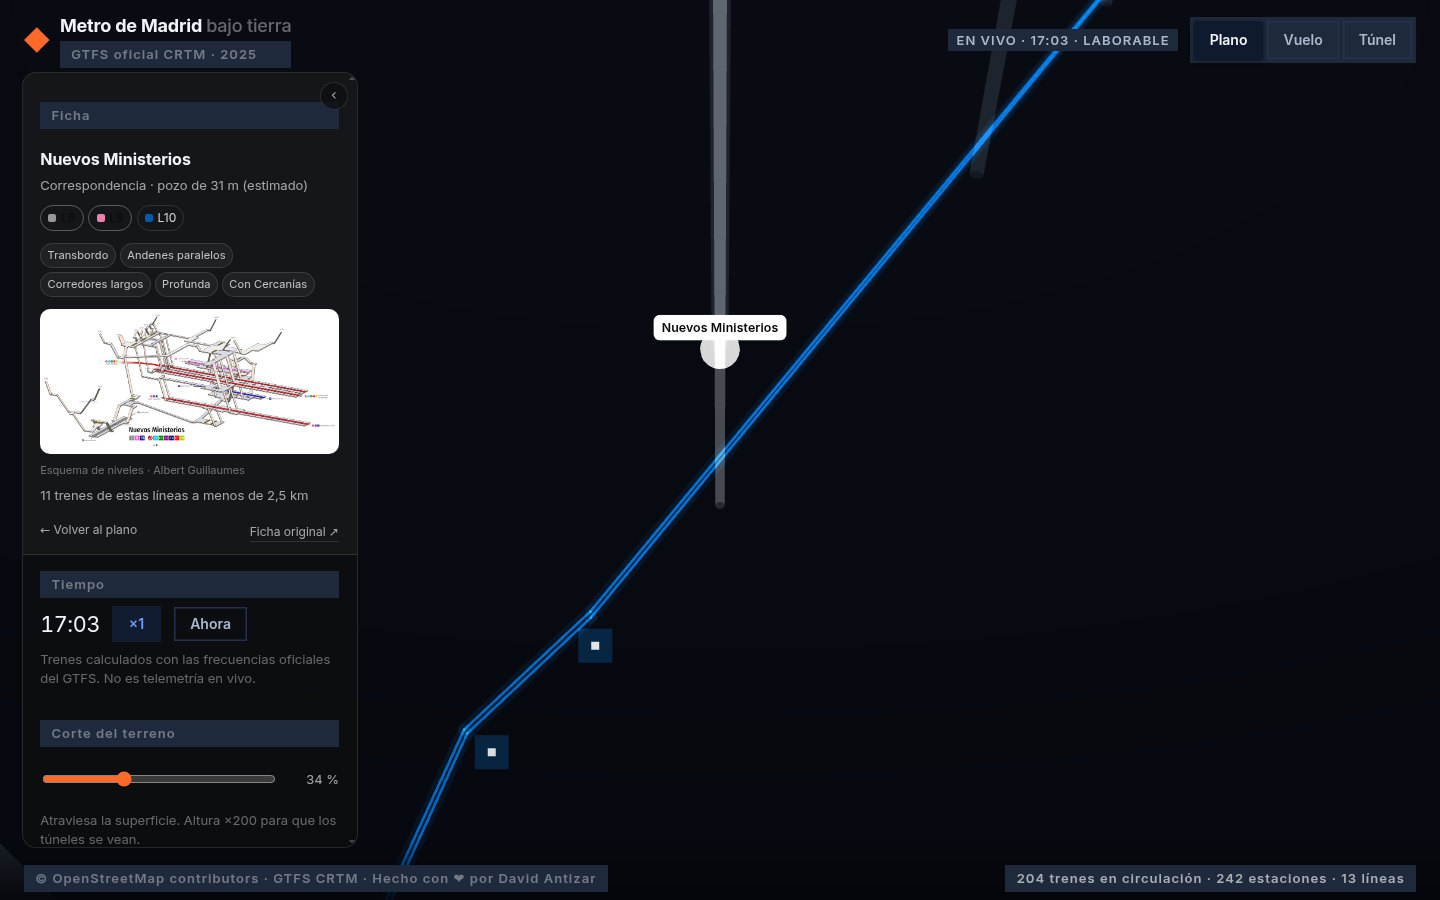
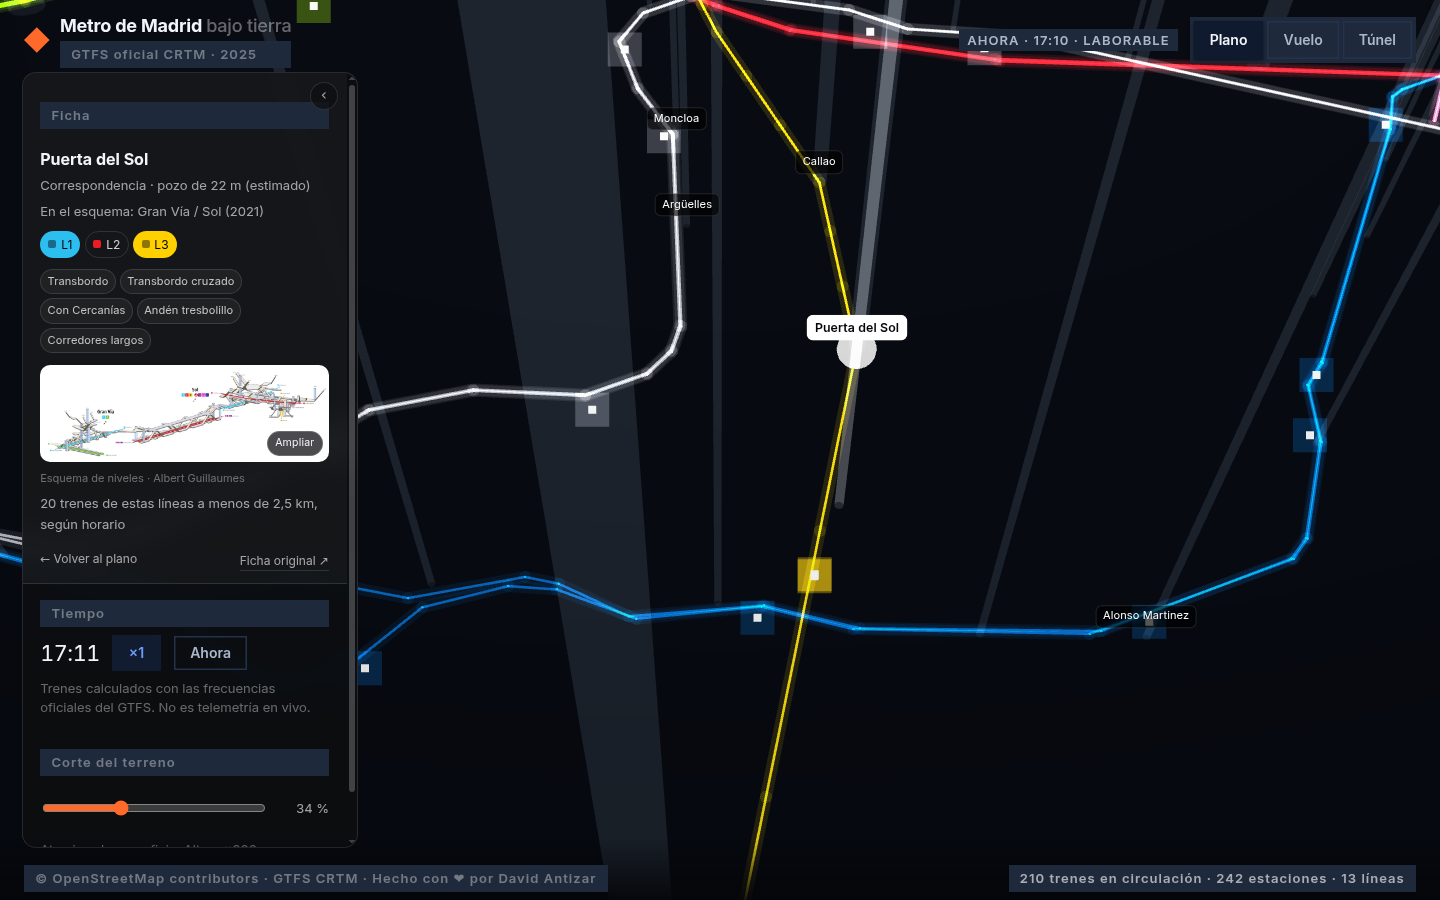
fix(zoom): centra la estacion en el mapa libre que deja el panel

diff --git a/assets/visor.js b/assets/visor.js
@@ -641,11 +641,19 @@ function enfocarEstacion(st) {
   }
   const y = -st._prof * EXAG;
   const d = 1150;
-  irA(
-    [st._x + d * 0.42, y + d * 0.78, st._z + d * 0.86],
-    [st._x, y - d * 0.16, st._z],
-    1300
-  );
+  const pos = new THREE.Vector3(st._x + d * 0.42, y + d * 0.78, st._z + d * 0.86);
+  const tgt = new THREE.Vector3(st._x, y - d * 0.16, st._z);
+  // la ficha ocupa la izquierda: se desplaza el encuadre para que la estación
+  // quede centrada en el trozo de mapa que sigue viéndose
+  const panel = $('#panel');
+  if (panel && !panel.classList.contains('is-oculto') && innerWidth > 720) {
+    const anchoVisible = 2 * d * Math.tan(THREE.MathUtils.degToRad(camara.fov / 2)) * camara.aspect;
+    const corrimiento = (panel.getBoundingClientRect().width / 2) * (anchoVisible / innerWidth);
+    const derecha = new THREE.Vector3().subVectors(pos, tgt).cross(camara.up).normalize();
+    pos.addScaledVector(derecha, corrimiento);
+    tgt.addScaledVector(derecha, corrimiento);
+  }
+  irA(pos.toArray(), tgt.toArray(), 1300);
   // haz vertical: se ve dónde está el pozo aunque el terreno esté opaco
   const haz = marcador.getObjectByName('haz');
   const punta = marcador.getObjectByName('punta');

diff --git a/index.html b/index.html
@@ -6,7 +6,7 @@
 <title>Metro de Madrid bajo tierra · Mastermind</title>
 <link rel="stylesheet" href="https://cdn.jsdelivr.net/gh/Ntizar/Aurora@v10/tokens.css">
 <link rel="stylesheet" href="https://cdn.jsdelivr.net/gh/Ntizar/Aurora@v10/packs/all.css">
-<link rel="stylesheet" href="assets/visor.css?v=34">
+<link rel="stylesheet" href="assets/visor.css?v=36">
 <script type="importmap">
 {
   "imports": {
@@ -101,6 +101,6 @@
 
 <div id="lupa" role="dialog" aria-label="Esquema ampliado"><img alt="Esquema de la estación ampliado"></div>
 
-<script type="module" src="assets/visor.js?v=34"></script>
+<script type="module" src="assets/visor.js?v=36"></script>
 </body>
 </html>
